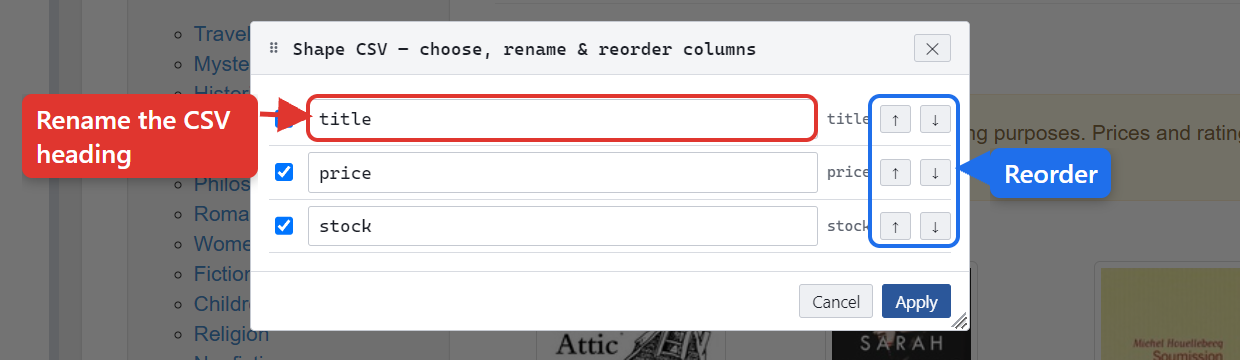
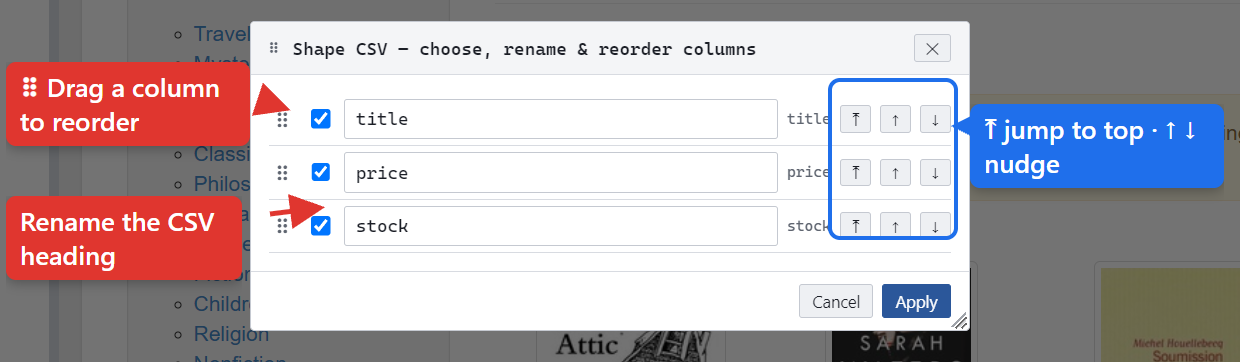
CSV shaping: persist across runs + drag-to-reorder + jump-to-top
Two fixes to column shaping:
- It now STICKS. A run no longer wipes columnConfig; columns are reconciled by
  key (ensureColumn) so labels/order/drops set once persist across every later
  run (and are saved with the job). activeColumns() shows only columns the
  current run actually produced, so a stale column from a since-changed job
  never lingers.
- Reordering is no longer one-nudge-at-a-time: the Shape-CSV dialog gains a
  drag handle (drag a column anywhere) and a ⤒ "move to top" button — so a
  date column stuck at the end of hundreds of columns is one action away from
  the top. ↑/↓ remain for fine nudges.

Refreshed the help "Columns" figure + text. Verified: shape survives a second
run (headers stayed [cost, title] with stock dropped); full test suite passes.

diff --git a/src/renderer/renderer.js b/src/renderer/renderer.js
@@ -4598,12 +4598,14 @@ async function runSteps(opts) {
   authCheckedOnFail = false;
   hideAuthBanner();
 
-  // Every run starts from a clean sheet — no rows, discovered columns, or CSV
-  // shaping carried over from a previous run. Without this, results accumulate
-  // across runs and stale columns from an earlier date/table keep reappearing.
+  // Every run starts from a clean sheet of ROWS and freshly-discovered columns.
+  // The CSV SHAPE (columnConfig — labels, order, which columns are dropped) is
+  // deliberately KEPT, so shaping you did once persists across every later run.
+  // Columns are reconciled by key as rows arrive (see ensureColumn), and
+  // activeColumns() only shows/exports columns actually produced this run, so a
+  // stale column from a since-changed job never lingers in the output.
   results.length = 0;
   columns.length = 0;
-  columnConfig.length = 0;
   liveExtra = null;
   renderResults();
 
@@ -5166,13 +5168,7 @@ async function execStep(s, ctx) {
       // Make the added columns real output columns (so committed rows show/export
       // them). Rows still in ctx.listRows register themselves when they flush.
       const register = () => {
-        for (const c of bring) {
-          const nm = pfx + c;
-          if (!columns.includes(nm)) {
-            columns.push(nm);
-            columnConfig.push({ key: nm, label: nm, include: true });
-          }
-        }
+        for (const c of bring) ensureColumn(pfx + c);
       };
 
       let matched = 0;
@@ -5468,10 +5464,7 @@ function upsertCell(ctx, matchCol, matchVal, setCol, val) {
   // If we patched a row already in the visible results table, surface the new
   // column right away.
   if (results.includes(row)) {
-    if (!columns.includes(setCol)) {
-      columns.push(setCol);
-      columnConfig.push({ key: setCol, label: setCol, include: true });
-    }
+    ensureColumn(setCol);
     renderResults();
   }
   return { created };
@@ -5776,15 +5769,18 @@ function waitForLoad(maxWait = 15000, grace = 450) {
 // Results table + CSV
 // ===========================================================================
 
+// Register a column discovered in the output: mark it present this run, and add
+// it to the CSV shape ONLY if it isn't already configured. That "only if new"
+// is what makes shaping (labels / order / drops) survive across runs instead of
+// being rebuilt from scratch each time.
+function ensureColumn(key) {
+  if (!columns.includes(key)) columns.push(key);
+  if (!columnConfig.some((c) => c.key === key)) columnConfig.push({ key, label: key, include: true });
+}
+
 function addRow(row) {
   results.push(row);
-  for (const k of Object.keys(row)) {
-    if (!columns.includes(k)) {
-      columns.push(k);
-      // New source field → add to the export shape (included, labelled = key).
-      columnConfig.push({ key: k, label: k, include: true });
-    }
-  }
+  for (const k of Object.keys(row)) ensureColumn(k);
   renderResults();
 }
 
@@ -5798,16 +5794,16 @@ function stampColumn(fromIndex, key, value) {
       changed = true;
     }
   }
-  if (changed && !columns.includes(key)) {
-    columns.push(key);
-    columnConfig.push({ key, label: key, include: true });
-  }
-  if (changed) renderResults();
+  if (changed) { ensureColumn(key); renderResults(); }
 }
 
-// The columns actually shown/exported, in their configured order.
+// The columns actually shown/exported, in their configured (user) order. After a
+// run we also drop any configured column the current run didn't produce, so a
+// stale column left over from a since-changed job never shows up empty. Before
+// any run (columns empty — e.g. a freshly loaded job) we show all configured.
 function activeColumns() {
-  return columnConfig.filter((c) => c.include);
+  const inc = columnConfig.filter((c) => c.include);
+  return columns.length ? inc.filter((c) => columns.includes(c.key)) : inc;
 }
 
 // Show the rows produced so far but not yet committed (a grabbed table still in
@@ -5816,12 +5812,7 @@ function activeColumns() {
 function liveRender(ctx) {
   const pending = (ctx.listRows || []).concat(ctx.cellRows || []);
   for (const row of pending) {
-    for (const k of Object.keys(row)) {
-      if (!columns.includes(k)) {
-        columns.push(k);
-        columnConfig.push({ key: k, label: k, include: true });
-      }
-    }
+    for (const k of Object.keys(row)) ensureColumn(k);
   }
   liveExtra = pending;
   renderResults();
@@ -5902,10 +5893,39 @@ $('#shape-cols').addEventListener('click', () => {
   $('#cols-modal').classList.remove('hidden');
 });
 
+// Move the draft column at `from` to index `to` (clamped), then re-render.
+function moveCol(from, to) {
+  if (from == null || from < 0 || from >= colsDraft.length) return;
+  to = Math.max(0, Math.min(colsDraft.length - 1, to));
+  if (from === to) return;
+  const [item] = colsDraft.splice(from, 1);
+  colsDraft.splice(to, 0, item);
+  renderColsRows();
+}
+
+let dragColIdx = null;
+
 function renderColsRows() {
   const body = $('#cols-body');
   body.innerHTML = '';
   colsDraft.forEach((c, i) => {
+    const row = el('div', { className: 'col-row' });
+    row.dataset.idx = i;
+
+    // Drag handle — only the handle is draggable, so the label field stays
+    // fully editable (you can select text in it without starting a drag).
+    const handle = el('span', { className: 'drag-handle', textContent: '⠿', title: 'Drag to reorder' });
+    handle.draggable = true;
+    handle.addEventListener('dragstart', (e) => {
+      dragColIdx = i;
+      row.classList.add('dragging');
+      try { e.dataTransfer.effectAllowed = 'move'; e.dataTransfer.setData('text/plain', String(i)); } catch (_) {}
+    });
+    handle.addEventListener('dragend', () => {
+      dragColIdx = null;
+      body.querySelectorAll('.col-row').forEach((r) => r.classList.remove('dragging', 'drop-above', 'drop-below'));
+    });
+
     const inc = el('input', { type: 'checkbox', checked: c.include });
     inc.addEventListener('change', () => (c.include = inc.checked));
 
@@ -5914,22 +5934,36 @@ function renderColsRows() {
 
     const src = el('span', { className: 'src', textContent: c.key, title: 'source field: ' + c.key });
 
+    const top = el('button', { textContent: '⤒', title: 'Move to top' });
+    top.addEventListener('click', () => moveCol(i, 0));
     const up = el('button', { textContent: '↑', title: 'Move up' });
-    up.addEventListener('click', () => {
-      if (i > 0) {
-        [colsDraft[i - 1], colsDraft[i]] = [colsDraft[i], colsDraft[i - 1]];
-        renderColsRows();
-      }
-    });
+    up.addEventListener('click', () => moveCol(i, i - 1));
     const down = el('button', { textContent: '↓', title: 'Move down' });
-    down.addEventListener('click', () => {
-      if (i < colsDraft.length - 1) {
-        [colsDraft[i + 1], colsDraft[i]] = [colsDraft[i], colsDraft[i + 1]];
-        renderColsRows();
-      }
+    down.addEventListener('click', () => moveCol(i, i + 1));
+
+    // Drop positioning: dropping on the top/bottom half of a row inserts
+    // above/below it. Works even with hundreds of rows.
+    row.addEventListener('dragover', (e) => {
+      if (dragColIdx == null) return;
+      e.preventDefault();
+      const r = row.getBoundingClientRect();
+      const below = e.clientY - r.top > r.height / 2;
+      row.classList.toggle('drop-below', below);
+      row.classList.toggle('drop-above', !below);
+    });
+    row.addEventListener('dragleave', () => row.classList.remove('drop-above', 'drop-below'));
+    row.addEventListener('drop', (e) => {
+      if (dragColIdx == null) return;
+      e.preventDefault();
+      const r = row.getBoundingClientRect();
+      const below = e.clientY - r.top > r.height / 2;
+      let target = i + (below ? 1 : 0);
+      if (dragColIdx < target) target--; // account for the removed source slot
+      moveCol(dragColIdx, target);
     });
 
-    body.append(el('div', { className: 'col-row' }, [inc, lbl, src, up, down]));
+    row.append(handle, inc, lbl, src, top, up, down);
+    body.append(row);
   });
 }
 

diff --git a/src/renderer/styles.css b/src/renderer/styles.css
@@ -1350,7 +1350,7 @@ select {
 /* column-shaping rows */
 .col-row {
   display: grid;
-  grid-template-columns: auto 1fr auto auto auto;
+  grid-template-columns: auto auto 1fr auto auto auto auto;
   gap: 6px;
   align-items: center;
   padding: 4px 0;
@@ -1358,6 +1358,26 @@ select {
 }
 .col-row input[type='checkbox'] {
   width: auto;
+}
+.col-row .drag-handle {
+  cursor: grab;
+  color: var(--text-dim);
+  padding: 0 4px;
+  font-size: 14px;
+  line-height: 1;
+  user-select: none;
+}
+.col-row .drag-handle:active {
+  cursor: grabbing;
+}
+.col-row.dragging {
+  opacity: 0.4;
+}
+.col-row.drop-above {
+  box-shadow: inset 0 2px 0 0 var(--accent);
+}
+.col-row.drop-below {
+  box-shadow: inset 0 -2px 0 0 var(--accent);
 }
 .col-row .src {
   font: 10px var(--mono);

diff --git a/src/help/index.html b/src/help/index.html
@@ -295,9 +295,13 @@ While  more is true   <span class="c">(safety cap: 5)</span>
 
       <section id="f-columns">
         <h2>Columns &amp; CSV export</h2>
-        <p>Press <strong>⚙ Columns</strong> to shape the CSV: tick/untick to include, rename a heading,
-           and use <kbd>↑</kbd>/<kbd>↓</kbd> to reorder. Then <strong>Apply</strong> and <strong>⬇ Export CSV</strong>.</p>
-        <figure class="mid"><img src="img/columns.png" alt="Shape CSV dialog" /><figcaption>Rename, drop and reorder columns before exporting.</figcaption></figure>
+        <p>Press <strong>⚙ Columns</strong> to shape the CSV: tick/untick to include a column, rename its
+           heading, and reorder — <strong>drag the ⠿ handle</strong> to move a column anywhere, press
+           <strong>⤒</strong> to jump it straight to the top (handy when a <code>date</code> column lands at the
+           end of hundreds of columns), or nudge with <kbd>↑</kbd>/<kbd>↓</kbd>. Then <strong>Apply</strong> and
+           <strong>⬇ Export CSV</strong>.</p>
+        <figure class="mid"><img src="img/columns.png" alt="Shape CSV dialog" /><figcaption>Rename, drop and reorder columns — drag to reorder, or ⤒ to jump to the top.</figcaption></figure>
+        <div class="callout tip">Your column shape is <strong>saved with the job</strong> — set it once and it sticks for every future run, not just the current one.</div>
         <p>Choose the file encoding next to the Export button — <strong>UTF-8 (Excel-ready)</strong> is the
            safe default for opening cleanly in Excel (£, accents, etc.).</p>
       </section>